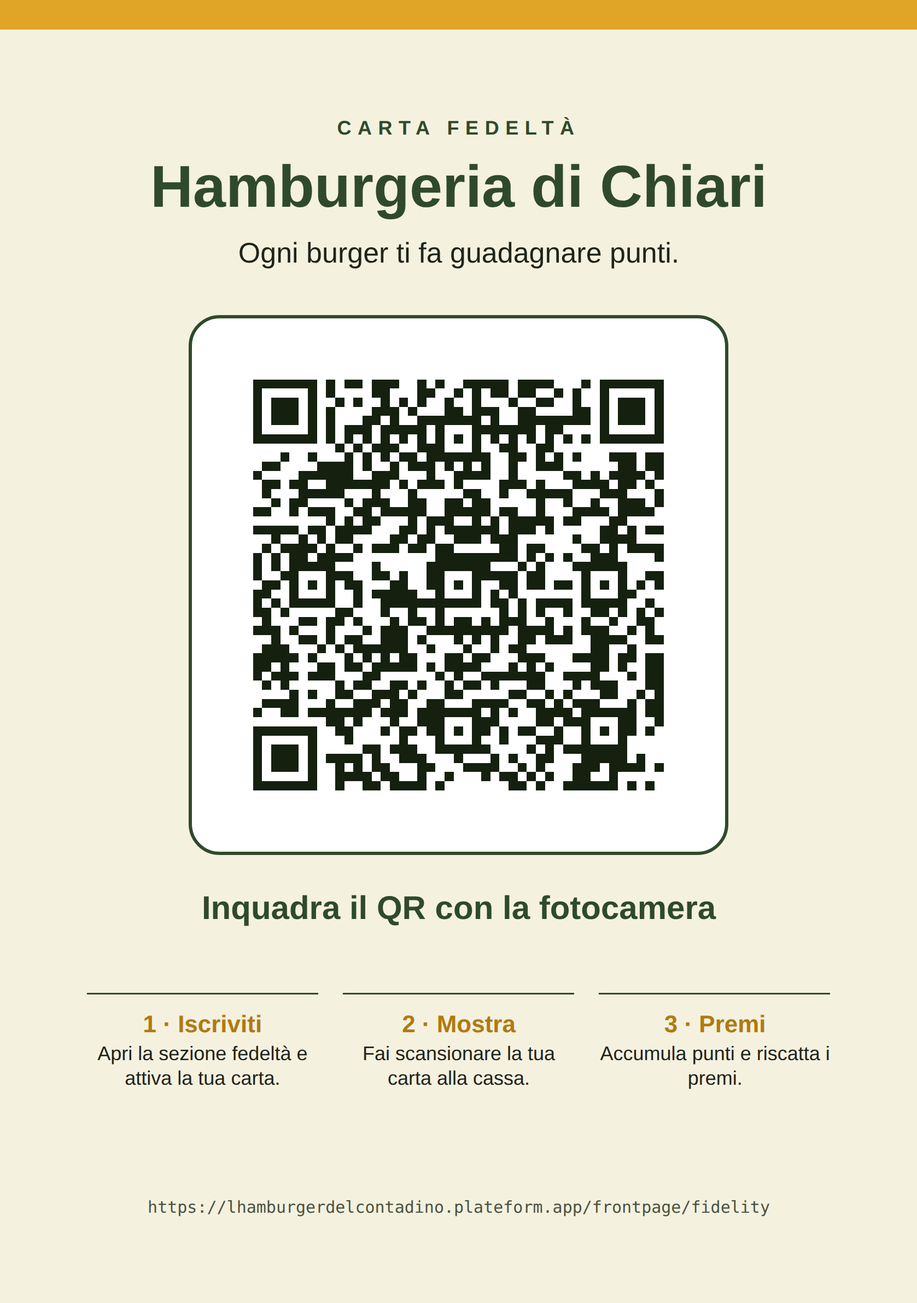
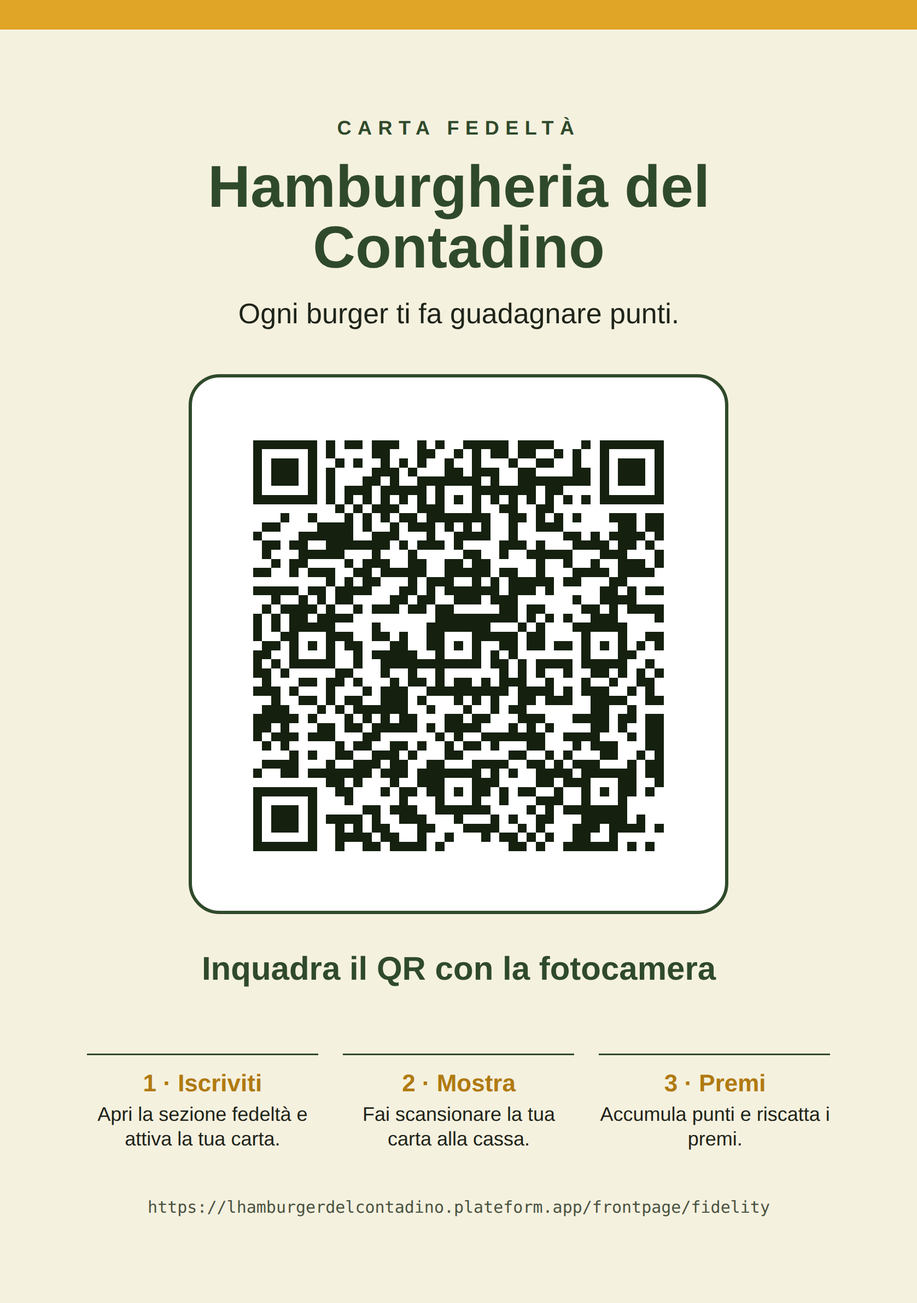
Rename restaurant to its official name, Hamburgheria del Contadino
Updates the app header, wallet card, scan message, README and QR
generator, and regenerates the QR files and A5 card.

Claude-Session: https://claude.ai/code/session_012S33PFhA3Vec366VbHgMSH

Changed region(s): [[0.124, 0.1243, 0.8992, 0.9009]]

diff --git a/qr/fidelity-poster.html b/qr/fidelity-poster.html
@@ -2,7 +2,7 @@
 <html lang="it">
 <head>
 <meta charset="utf-8">
-<title>Hamburgeria di Chiari — Carta Fedeltà</title>
+<title>Hamburgheria del Contadino — Carta Fedeltà</title>
 <style>
   @page { size: A5 portrait; margin: 0; }
   * { box-sizing: border-box; }
@@ -27,9 +27,9 @@
 <body>
   <div class="card">
     <div class="eyebrow">Carta Fedeltà</div>
-    <h1>Hamburgeria di Chiari</h1>
+    <h1>Hamburgheria del Contadino</h1>
     <p class="tag">Ogni burger ti fa guadagnare punti.</p>
-    <div class="qr"><svg xmlns="http://www.w3.org/2000/svg" viewBox="0 0 53 53" shape-rendering="crispEdges" role="img" aria-label="QR code: https://lhamburgerdelcontadino.plateform.app/frontpage/fidelity"><title>Hamburgeria di Chiari — Carta Fedeltà</title><rect width="53" height="53" fill="#ffffff"/><path d="M4 4h1v1h-1zM5 4h1v1h-1zM6 4h1v1h-1zM7 4h1v1h-1zM8 4h1v1h-1zM9 4h1v1h-1zM10 4h1v1h-1zM12 4h1v1h-1zM14 4h1v1h-1zM15 4h1v1h-1zM17 4h1v1h-1zM18 4h1v1h-1zM19 4h1v1h-1zM22 4h1v1h-1zM24 4h1v1h-1zM27 4h1v1h-1zM28 4h1v1h-1zM29 4h1v1h-1zM30 4h1v1h-1zM31 4h1v1h-1zM33 4h1v1h-1zM34 4h1v1h-1zM35 4h1v1h-1zM36 4h1v1h-1zM40 4h1v1h-1zM42 4h1v1h-1zM43 4h1v1h-1zM44 4h1v1h-1zM45 4h1v1h-1zM46 4h1v1h-1zM47 4h1v1h-1zM48 4h1v1h-1zM4 5h1v1h-1zM10 5h1v1h-1zM12 5h1v1h-1zM17 5h1v1h-1zM18 5h1v1h-1zM22 5h1v1h-1zM23 5h1v1h-1zM26 5h1v1h-1zM28 5h1v1h-1zM30 5h1v1h-1zM31 5h1v1h-1zM33 5h1v1h-1zM34 5h1v1h-1zM37 5h1v1h-1zM39 5h1v1h-1zM42 5h1v1h-1zM48 5h1v1h-1zM4 6h1v1h-1zM6 6h1v1h-1zM7 6h1v1h-1zM8 6h1v1h-1zM10 6h1v1h-1zM13 6h1v1h-1zM15 6h1v1h-1zM18 6h1v1h-1zM20 6h1v1h-1zM22 6h1v1h-1zM25 6h1v1h-1zM28 6h1v1h-1zM32 6h1v1h-1zM35 6h1v1h-1zM36 6h1v1h-1zM39 6h1v1h-1zM42 6h1v1h-1zM44 6h1v1h-1zM45 6h1v1h-1zM46 6h1v1h-1zM48 6h1v1h-1zM4 7h1v1h-1zM6 7h1v1h-1zM7 7h1v1h-1zM8 7h1v1h-1zM10 7h1v1h-1zM12 7h1v1h-1zM17 7h1v1h-1zM18 7h1v1h-1zM19 7h1v1h-1zM21 7h1v1h-1zM25 7h1v1h-1zM26 7h1v1h-1zM28 7h1v1h-1zM29 7h1v1h-1zM30 7h1v1h-1zM33 7h1v1h-1zM34 7h1v1h-1zM39 7h1v1h-1zM40 7h1v1h-1zM42 7h1v1h-1zM44 7h1v1h-1zM45 7h1v1h-1zM46 7h1v1h-1zM48 7h1v1h-1zM4 8h1v1h-1zM6 8h1v1h-1zM7 8h1v1h-1zM8 8h1v1h-1zM10 8h1v1h-1zM12 8h1v1h-1zM16 8h1v1h-1zM17 8h1v1h-1zM19 8h1v1h-1zM22 8h1v1h-1zM23 8h1v1h-1zM24 8h1v1h-1zM25 8h1v1h-1zM26 8h1v1h-1zM27 8h1v1h-1zM28 8h1v1h-1zM30 8h1v1h-1zM33 8h1v1h-1zM34 8h1v1h-1zM35 8h1v1h-1zM36 8h1v1h-1zM37 8h1v1h-1zM38 8h1v1h-1zM39 8h1v1h-1zM40 8h1v1h-1zM42 8h1v1h-1zM44 8h1v1h-1zM45 8h1v1h-1zM46 8h1v1h-1zM48 8h1v1h-1zM4 9h1v1h-1zM10 9h1v1h-1zM12 9h1v1h-1zM14 9h1v1h-1zM15 9h1v1h-1zM16 9h1v1h-1zM18 9h1v1h-1zM19 9h1v1h-1zM20 9h1v1h-1zM21 9h1v1h-1zM22 9h1v1h-1zM24 9h1v1h-1zM28 9h1v1h-1zM29 9h1v1h-1zM30 9h1v1h-1zM31 9h1v1h-1zM32 9h1v1h-1zM33 9h1v1h-1zM34 9h1v1h-1zM36 9h1v1h-1zM37 9h1v1h-1zM42 9h1v1h-1zM48 9h1v1h-1zM4 10h1v1h-1zM5 10h1v1h-1zM6 10h1v1h-1zM7 10h1v1h-1zM8 10h1v1h-1zM9 10h1v1h-1zM10 10h1v1h-1zM12 10h1v1h-1zM14 10h1v1h-1zM16 10h1v1h-1zM18 10h1v1h-1zM20 10h1v1h-1zM22 10h1v1h-1zM24 10h1v1h-1zM26 10h1v1h-1zM28 10h1v1h-1zM30 10h1v1h-1zM32 10h1v1h-1zM34 10h1v1h-1zM36 10h1v1h-1zM38 10h1v1h-1zM40 10h1v1h-1zM42 10h1v1h-1zM43 10h1v1h-1zM44 10h1v1h-1zM45 10h1v1h-1zM46 10h1v1h-1zM47 10h1v1h-1zM48 10h1v1h-1zM13 11h1v1h-1zM15 11h1v1h-1zM17 11h1v1h-1zM18 11h1v1h-1zM19 11h1v1h-1zM22 11h1v1h-1zM23 11h1v1h-1zM24 11h1v1h-1zM28 11h1v1h-1zM31 11h1v1h-1zM32 11h1v1h-1zM35 11h1v1h-1zM36 11h1v1h-1zM7 12h1v1h-1zM10 12h1v1h-1zM14 12h1v1h-1zM16 12h1v1h-1zM18 12h1v1h-1zM20 12h1v1h-1zM21 12h1v1h-1zM23 12h1v1h-1zM24 12h1v1h-1zM25 12h1v1h-1zM26 12h1v1h-1zM27 12h1v1h-1zM28 12h1v1h-1zM29 12h1v1h-1zM32 12h1v1h-1zM33 12h1v1h-1zM35 12h1v1h-1zM37 12h1v1h-1zM39 12h1v1h-1zM43 12h1v1h-1zM44 12h1v1h-1zM45 12h1v1h-1zM47 12h1v1h-1zM48 12h1v1h-1zM5 13h1v1h-1zM6 13h1v1h-1zM11 13h1v1h-1zM12 13h1v1h-1zM13 13h1v1h-1zM14 13h1v1h-1zM16 13h1v1h-1zM19 13h1v1h-1zM21 13h1v1h-1zM22 13h1v1h-1zM23 13h1v1h-1zM25 13h1v1h-1zM27 13h1v1h-1zM29 13h1v1h-1zM32 13h1v1h-1zM35 13h1v1h-1zM36 13h1v1h-1zM37 13h1v1h-1zM44 13h1v1h-1zM45 13h1v1h-1zM47 13h1v1h-1zM48 13h1v1h-1zM4 14h1v1h-1zM9 14h1v1h-1zM10 14h1v1h-1zM11 14h1v1h-1zM12 14h1v1h-1zM13 14h1v1h-1zM14 14h1v1h-1zM17 14h1v1h-1zM18 14h1v1h-1zM19 14h1v1h-1zM23 14h1v1h-1zM26 14h1v1h-1zM27 14h1v1h-1zM28 14h1v1h-1zM29 14h1v1h-1zM32 14h1v1h-1zM38 14h1v1h-1zM39 14h1v1h-1zM41 14h1v1h-1zM43 14h1v1h-1zM44 14h1v1h-1zM45 14h1v1h-1zM46 14h1v1h-1zM48 14h1v1h-1zM5 15h1v1h-1zM6 15h1v1h-1zM8 15h1v1h-1zM9 15h1v1h-1zM12 15h1v1h-1zM13 15h1v1h-1zM14 15h1v1h-1zM15 15h1v1h-1zM16 15h1v1h-1zM17 15h1v1h-1zM18 15h1v1h-1zM20 15h1v1h-1zM22 15h1v1h-1zM23 15h1v1h-1zM24 15h1v1h-1zM26 15h1v1h-1zM31 15h1v1h-1zM32 15h1v1h-1zM33 15h1v1h-1zM35 15h1v1h-1zM39 15h1v1h-1zM40 15h1v1h-1zM41 15h1v1h-1zM42 15h1v1h-1zM44 15h1v1h-1zM45 15h1v1h-1zM47 15h1v1h-1zM5 16h1v1h-1zM9 16h1v1h-1zM10 16h1v1h-1zM11 16h1v1h-1zM12 16h1v1h-1zM13 16h1v1h-1zM17 16h1v1h-1zM21 16h1v1h-1zM27 16h1v1h-1zM28 16h1v1h-1zM31 16h1v1h-1zM34 16h1v1h-1zM35 16h1v1h-1zM36 16h1v1h-1zM37 16h1v1h-1zM38 16h1v1h-1zM42 16h1v1h-1zM43 16h1v1h-1zM44 16h1v1h-1zM48 16h1v1h-1zM6 17h1v1h-1zM8 17h1v1h-1zM9 17h1v1h-1zM14 17h1v1h-1zM16 17h1v1h-1zM17 17h1v1h-1zM18 17h1v1h-1zM21 17h1v1h-1zM22 17h1v1h-1zM25 17h1v1h-1zM26 17h1v1h-1zM28 17h1v1h-1zM29 17h1v1h-1zM35 17h1v1h-1zM38 17h1v1h-1zM41 17h1v1h-1zM44 17h1v1h-1zM45 17h1v1h-1zM46 17h1v1h-1zM48 17h1v1h-1zM4 18h1v1h-1zM5 18h1v1h-1zM8 18h1v1h-1zM10 18h1v1h-1zM11 18h1v1h-1zM12 18h1v1h-1zM15 18h1v1h-1zM16 18h1v1h-1zM18 18h1v1h-1zM19 18h1v1h-1zM20 18h1v1h-1zM21 18h1v1h-1zM22 18h1v1h-1zM25 18h1v1h-1zM26 18h1v1h-1zM27 18h1v1h-1zM28 18h1v1h-1zM29 18h1v1h-1zM31 18h1v1h-1zM32 18h1v1h-1zM35 18h1v1h-1zM39 18h1v1h-1zM40 18h1v1h-1zM41 18h1v1h-1zM42 18h1v1h-1zM44 18h1v1h-1zM45 18h1v1h-1zM46 18h1v1h-1zM47 18h1v1h-1zM12 19h1v1h-1zM14 19h1v1h-1zM16 19h1v1h-1zM17 19h1v1h-1zM21 19h1v1h-1zM23 19h1v1h-1zM24 19h1v1h-1zM25 19h1v1h-1zM28 19h1v1h-1zM30 19h1v1h-1zM32 19h1v1h-1zM33 19h1v1h-1zM34 19h1v1h-1zM35 19h1v1h-1zM36 19h1v1h-1zM38 19h1v1h-1zM39 19h1v1h-1zM43 19h1v1h-1zM44 19h1v1h-1zM4 20h1v1h-1zM5 20h1v1h-1zM6 20h1v1h-1zM7 20h1v1h-1zM8 20h1v1h-1zM10 20h1v1h-1zM11 20h1v1h-1zM13 20h1v1h-1zM14 20h1v1h-1zM15 20h1v1h-1zM16 20h1v1h-1zM20 20h1v1h-1zM21 20h1v1h-1zM23 20h1v1h-1zM25 20h1v1h-1zM26 20h1v1h-1zM27 20h1v1h-1zM28 20h1v1h-1zM29 20h1v1h-1zM30 20h1v1h-1zM32 20h1v1h-1zM33 20h1v1h-1zM34 20h1v1h-1zM36 20h1v1h-1zM42 20h1v1h-1zM43 20h1v1h-1zM45 20h1v1h-1zM47 20h1v1h-1zM48 20h1v1h-1zM6 21h1v1h-1zM9 21h1v1h-1zM11 21h1v1h-1zM13 21h1v1h-1zM14 21h1v1h-1zM19 21h1v1h-1zM20 21h1v1h-1zM22 21h1v1h-1zM23 21h1v1h-1zM26 21h1v1h-1zM27 21h1v1h-1zM28 21h1v1h-1zM30 21h1v1h-1zM31 21h1v1h-1zM32 21h1v1h-1zM39 21h1v1h-1zM42 21h1v1h-1zM43 21h1v1h-1zM44 21h1v1h-1zM45 21h1v1h-1zM5 22h1v1h-1zM7 22h1v1h-1zM8 22h1v1h-1zM9 22h1v1h-1zM10 22h1v1h-1zM12 22h1v1h-1zM15 22h1v1h-1zM17 22h1v1h-1zM18 22h1v1h-1zM19 22h1v1h-1zM21 22h1v1h-1zM22 22h1v1h-1zM24 22h1v1h-1zM25 22h1v1h-1zM31 22h1v1h-1zM32 22h1v1h-1zM34 22h1v1h-1zM35 22h1v1h-1zM40 22h1v1h-1zM41 22h1v1h-1zM43 22h1v1h-1zM45 22h1v1h-1zM46 22h1v1h-1zM47 22h1v1h-1zM48 22h1v1h-1zM4 23h1v1h-1zM6 23h1v1h-1zM8 23h1v1h-1zM9 23h1v1h-1zM11 23h1v1h-1zM12 23h1v1h-1zM13 23h1v1h-1zM14 23h1v1h-1zM24 23h1v1h-1zM25 23h1v1h-1zM26 23h1v1h-1zM27 23h1v1h-1zM28 23h1v1h-1zM29 23h1v1h-1zM30 23h1v1h-1zM31 23h1v1h-1zM32 23h1v1h-1zM34 23h1v1h-1zM36 23h1v1h-1zM38 23h1v1h-1zM41 23h1v1h-1zM42 23h1v1h-1zM43 23h1v1h-1zM48 23h1v1h-1zM4 24h1v1h-1zM6 24h1v1h-1zM8 24h1v1h-1zM9 24h1v1h-1zM10 24h1v1h-1zM11 24h1v1h-1zM12 24h1v1h-1zM17 24h1v1h-1zM23 24h1v1h-1zM24 24h1v1h-1zM25 24h1v1h-1zM26 24h1v1h-1zM27 24h1v1h-1zM28 24h1v1h-1zM29 24h1v1h-1zM33 24h1v1h-1zM35 24h1v1h-1zM39 24h1v1h-1zM40 24h1v1h-1zM41 24h1v1h-1zM42 24h1v1h-1zM43 24h1v1h-1zM44 24h1v1h-1zM4 25h1v1h-1zM7 25h1v1h-1zM8 25h1v1h-1zM12 25h1v1h-1zM13 25h1v1h-1zM14 25h1v1h-1zM17 25h1v1h-1zM18 25h1v1h-1zM20 25h1v1h-1zM23 25h1v1h-1zM24 25h1v1h-1zM28 25h1v1h-1zM29 25h1v1h-1zM30 25h1v1h-1zM31 25h1v1h-1zM32 25h1v1h-1zM34 25h1v1h-1zM35 25h1v1h-1zM40 25h1v1h-1zM44 25h1v1h-1zM47 25h1v1h-1zM48 25h1v1h-1zM5 26h1v1h-1zM6 26h1v1h-1zM8 26h1v1h-1zM10 26h1v1h-1zM12 26h1v1h-1zM14 26h1v1h-1zM15 26h1v1h-1zM19 26h1v1h-1zM20 26h1v1h-1zM23 26h1v1h-1zM24 26h1v1h-1zM26 26h1v1h-1zM28 26h1v1h-1zM31 26h1v1h-1zM32 26h1v1h-1zM34 26h1v1h-1zM35 26h1v1h-1zM37 26h1v1h-1zM38 26h1v1h-1zM40 26h1v1h-1zM42 26h1v1h-1zM44 26h1v1h-1zM46 26h1v1h-1zM48 26h1v1h-1zM4 27h1v1h-1zM5 27h1v1h-1zM8 27h1v1h-1zM12 27h1v1h-1zM15 27h1v1h-1zM17 27h1v1h-1zM18 27h1v1h-1zM19 27h1v1h-1zM20 27h1v1h-1zM21 27h1v1h-1zM24 27h1v1h-1zM28 27h1v1h-1zM30 27h1v1h-1zM32 27h1v1h-1zM40 27h1v1h-1zM44 27h1v1h-1zM45 27h1v1h-1zM4 28h1v1h-1zM6 28h1v1h-1zM8 28h1v1h-1zM9 28h1v1h-1zM10 28h1v1h-1zM11 28h1v1h-1zM12 28h1v1h-1zM15 28h1v1h-1zM18 28h1v1h-1zM19 28h1v1h-1zM20 28h1v1h-1zM21 28h1v1h-1zM22 28h1v1h-1zM23 28h1v1h-1zM24 28h1v1h-1zM25 28h1v1h-1zM26 28h1v1h-1zM27 28h1v1h-1zM28 28h1v1h-1zM30 28h1v1h-1zM31 28h1v1h-1zM33 28h1v1h-1zM35 28h1v1h-1zM36 28h1v1h-1zM37 28h1v1h-1zM38 28h1v1h-1zM40 28h1v1h-1zM41 28h1v1h-1zM42 28h1v1h-1zM43 28h1v1h-1zM44 28h1v1h-1zM47 28h1v1h-1zM4 29h1v1h-1zM5 29h1v1h-1zM7 29h1v1h-1zM13 29h1v1h-1zM14 29h1v1h-1zM18 29h1v1h-1zM21 29h1v1h-1zM24 29h1v1h-1zM31 29h1v1h-1zM33 29h1v1h-1zM35 29h1v1h-1zM38 29h1v1h-1zM41 29h1v1h-1zM42 29h1v1h-1zM44 29h1v1h-1zM46 29h1v1h-1zM48 29h1v1h-1zM5 30h1v1h-1zM9 30h1v1h-1zM10 30h1v1h-1zM12 30h1v1h-1zM13 30h1v1h-1zM15 30h1v1h-1zM19 30h1v1h-1zM21 30h1v1h-1zM22 30h1v1h-1zM24 30h1v1h-1zM26 30h1v1h-1zM27 30h1v1h-1zM29 30h1v1h-1zM31 30h1v1h-1zM32 30h1v1h-1zM33 30h1v1h-1zM36 30h1v1h-1zM40 30h1v1h-1zM43 30h1v1h-1zM46 30h1v1h-1zM47 30h1v1h-1zM4 31h1v1h-1zM5 31h1v1h-1zM6 31h1v1h-1zM8 31h1v1h-1zM12 31h1v1h-1zM16 31h1v1h-1zM18 31h1v1h-1zM19 31h1v1h-1zM20 31h1v1h-1zM23 31h1v1h-1zM24 31h1v1h-1zM25 31h1v1h-1zM26 31h1v1h-1zM27 31h1v1h-1zM28 31h1v1h-1zM29 31h1v1h-1zM30 31h1v1h-1zM31 31h1v1h-1zM33 31h1v1h-1zM34 31h1v1h-1zM35 31h1v1h-1zM36 31h1v1h-1zM38 31h1v1h-1zM40 31h1v1h-1zM41 31h1v1h-1zM42 31h1v1h-1zM45 31h1v1h-1zM47 31h1v1h-1zM6 32h1v1h-1zM9 32h1v1h-1zM10 32h1v1h-1zM12 32h1v1h-1zM14 32h1v1h-1zM15 32h1v1h-1zM18 32h1v1h-1zM19 32h1v1h-1zM20 32h1v1h-1zM22 32h1v1h-1zM26 32h1v1h-1zM28 32h1v1h-1zM30 32h1v1h-1zM33 32h1v1h-1zM34 32h1v1h-1zM36 32h1v1h-1zM37 32h1v1h-1zM38 32h1v1h-1zM41 32h1v1h-1zM42 32h1v1h-1zM43 32h1v1h-1zM44 32h1v1h-1zM47 32h1v1h-1zM48 32h1v1h-1zM5 33h1v1h-1zM6 33h1v1h-1zM7 33h1v1h-1zM11 33h1v1h-1zM13 33h1v1h-1zM15 33h1v1h-1zM16 33h1v1h-1zM17 33h1v1h-1zM18 33h1v1h-1zM19 33h1v1h-1zM20 33h1v1h-1zM23 33h1v1h-1zM27 33h1v1h-1zM30 33h1v1h-1zM32 33h1v1h-1zM33 33h1v1h-1zM41 33h1v1h-1zM42 33h1v1h-1zM45 33h1v1h-1zM4 34h1v1h-1zM5 34h1v1h-1zM6 34h1v1h-1zM7 34h1v1h-1zM8 34h1v1h-1zM10 34h1v1h-1zM14 34h1v1h-1zM16 34h1v1h-1zM18 34h1v1h-1zM20 34h1v1h-1zM21 34h1v1h-1zM25 34h1v1h-1zM26 34h1v1h-1zM28 34h1v1h-1zM29 34h1v1h-1zM33 34h1v1h-1zM34 34h1v1h-1zM35 34h1v1h-1zM39 34h1v1h-1zM40 34h1v1h-1zM41 34h1v1h-1zM42 34h1v1h-1zM44 34h1v1h-1zM45 34h1v1h-1zM47 34h1v1h-1zM48 34h1v1h-1zM4 35h1v1h-1zM5 35h1v1h-1zM7 35h1v1h-1zM11 35h1v1h-1zM12 35h1v1h-1zM14 35h1v1h-1zM15 35h1v1h-1zM17 35h1v1h-1zM18 35h1v1h-1zM19 35h1v1h-1zM20 35h1v1h-1zM21 35h1v1h-1zM23 35h1v1h-1zM25 35h1v1h-1zM26 35h1v1h-1zM27 35h1v1h-1zM28 35h1v1h-1zM32 35h1v1h-1zM34 35h1v1h-1zM36 35h1v1h-1zM41 35h1v1h-1zM42 35h1v1h-1zM44 35h1v1h-1zM47 35h1v1h-1zM48 35h1v1h-1zM4 36h1v1h-1zM6 36h1v1h-1zM7 36h1v1h-1zM8 36h1v1h-1zM10 36h1v1h-1zM11 36h1v1h-1zM12 36h1v1h-1zM16 36h1v1h-1zM17 36h1v1h-1zM24 36h1v1h-1zM26 36h1v1h-1zM29 36h1v1h-1zM30 36h1v1h-1zM31 36h1v1h-1zM32 36h1v1h-1zM33 36h1v1h-1zM34 36h1v1h-1zM35 36h1v1h-1zM38 36h1v1h-1zM39 36h1v1h-1zM40 36h1v1h-1zM41 36h1v1h-1zM45 36h1v1h-1zM47 36h1v1h-1zM48 36h1v1h-1zM5 37h1v1h-1zM7 37h1v1h-1zM13 37h1v1h-1zM15 37h1v1h-1zM16 37h1v1h-1zM19 37h1v1h-1zM20 37h1v1h-1zM22 37h1v1h-1zM25 37h1v1h-1zM27 37h1v1h-1zM28 37h1v1h-1zM30 37h1v1h-1zM34 37h1v1h-1zM35 37h1v1h-1zM39 37h1v1h-1zM41 37h1v1h-1zM42 37h1v1h-1zM43 37h1v1h-1zM47 37h1v1h-1zM48 37h1v1h-1zM8 38h1v1h-1zM10 38h1v1h-1zM13 38h1v1h-1zM14 38h1v1h-1zM17 38h1v1h-1zM18 38h1v1h-1zM19 38h1v1h-1zM21 38h1v1h-1zM25 38h1v1h-1zM26 38h1v1h-1zM32 38h1v1h-1zM33 38h1v1h-1zM36 38h1v1h-1zM38 38h1v1h-1zM42 38h1v1h-1zM43 38h1v1h-1zM46 38h1v1h-1zM48 38h1v1h-1zM5 39h1v1h-1zM6 39h1v1h-1zM7 39h1v1h-1zM8 39h1v1h-1zM12 39h1v1h-1zM15 39h1v1h-1zM16 39h1v1h-1zM17 39h1v1h-1zM19 39h1v1h-1zM20 39h1v1h-1zM23 39h1v1h-1zM24 39h1v1h-1zM28 39h1v1h-1zM29 39h1v1h-1zM30 39h1v1h-1zM31 39h1v1h-1zM34 39h1v1h-1zM35 39h1v1h-1zM37 39h1v1h-1zM39 39h1v1h-1zM40 39h1v1h-1zM41 39h1v1h-1zM45 39h1v1h-1zM47 39h1v1h-1zM48 39h1v1h-1zM4 40h1v1h-1zM7 40h1v1h-1zM8 40h1v1h-1zM10 40h1v1h-1zM11 40h1v1h-1zM12 40h1v1h-1zM13 40h1v1h-1zM14 40h1v1h-1zM15 40h1v1h-1zM16 40h1v1h-1zM18 40h1v1h-1zM19 40h1v1h-1zM20 40h1v1h-1zM22 40h1v1h-1zM23 40h1v1h-1zM24 40h1v1h-1zM25 40h1v1h-1zM26 40h1v1h-1zM27 40h1v1h-1zM28 40h1v1h-1zM30 40h1v1h-1zM32 40h1v1h-1zM35 40h1v1h-1zM36 40h1v1h-1zM37 40h1v1h-1zM38 40h1v1h-1zM40 40h1v1h-1zM41 40h1v1h-1zM42 40h1v1h-1zM43 40h1v1h-1zM44 40h1v1h-1zM45 40h1v1h-1zM47 40h1v1h-1zM48 40h1v1h-1zM12 41h1v1h-1zM13 41h1v1h-1zM15 41h1v1h-1zM19 41h1v1h-1zM22 41h1v1h-1zM23 41h1v1h-1zM24 41h1v1h-1zM28 41h1v1h-1zM29 41h1v1h-1zM30 41h1v1h-1zM35 41h1v1h-1zM36 41h1v1h-1zM38 41h1v1h-1zM39 41h1v1h-1zM40 41h1v1h-1zM44 41h1v1h-1zM45 41h1v1h-1zM48 41h1v1h-1zM4 42h1v1h-1zM5 42h1v1h-1zM6 42h1v1h-1zM7 42h1v1h-1zM8 42h1v1h-1zM9 42h1v1h-1zM10 42h1v1h-1zM13 42h1v1h-1zM14 42h1v1h-1zM18 42h1v1h-1zM20 42h1v1h-1zM21 42h1v1h-1zM23 42h1v1h-1zM24 42h1v1h-1zM26 42h1v1h-1zM28 42h1v1h-1zM29 42h1v1h-1zM31 42h1v1h-1zM33 42h1v1h-1zM34 42h1v1h-1zM37 42h1v1h-1zM40 42h1v1h-1zM42 42h1v1h-1zM44 42h1v1h-1zM45 42h1v1h-1zM47 42h1v1h-1zM4 43h1v1h-1zM10 43h1v1h-1zM14 43h1v1h-1zM20 43h1v1h-1zM24 43h1v1h-1zM28 43h1v1h-1zM31 43h1v1h-1zM35 43h1v1h-1zM36 43h1v1h-1zM37 43h1v1h-1zM40 43h1v1h-1zM44 43h1v1h-1zM4 44h1v1h-1zM6 44h1v1h-1zM7 44h1v1h-1zM8 44h1v1h-1zM10 44h1v1h-1zM16 44h1v1h-1zM17 44h1v1h-1zM19 44h1v1h-1zM20 44h1v1h-1zM21 44h1v1h-1zM24 44h1v1h-1zM25 44h1v1h-1zM26 44h1v1h-1zM27 44h1v1h-1zM28 44h1v1h-1zM29 44h1v1h-1zM34 44h1v1h-1zM36 44h1v1h-1zM38 44h1v1h-1zM39 44h1v1h-1zM40 44h1v1h-1zM41 44h1v1h-1zM42 44h1v1h-1zM43 44h1v1h-1zM44 44h1v1h-1zM4 45h1v1h-1zM6 45h1v1h-1zM7 45h1v1h-1zM8 45h1v1h-1zM10 45h1v1h-1zM12 45h1v1h-1zM13 45h1v1h-1zM14 45h1v1h-1zM15 45h1v1h-1zM17 45h1v1h-1zM20 45h1v1h-1zM21 45h1v1h-1zM22 45h1v1h-1zM26 45h1v1h-1zM30 45h1v1h-1zM32 45h1v1h-1zM35 45h1v1h-1zM36 45h1v1h-1zM40 45h1v1h-1zM41 45h1v1h-1zM42 45h1v1h-1zM43 45h1v1h-1zM44 45h1v1h-1zM46 45h1v1h-1zM4 46h1v1h-1zM6 46h1v1h-1zM7 46h1v1h-1zM8 46h1v1h-1zM10 46h1v1h-1zM13 46h1v1h-1zM15 46h1v1h-1zM17 46h1v1h-1zM18 46h1v1h-1zM22 46h1v1h-1zM23 46h1v1h-1zM27 46h1v1h-1zM28 46h1v1h-1zM29 46h1v1h-1zM30 46h1v1h-1zM33 46h1v1h-1zM35 46h1v1h-1zM39 46h1v1h-1zM40 46h1v1h-1zM41 46h1v1h-1zM43 46h1v1h-1zM44 46h1v1h-1zM45 46h1v1h-1zM46 46h1v1h-1zM48 46h1v1h-1zM4 47h1v1h-1zM10 47h1v1h-1zM13 47h1v1h-1zM14 47h1v1h-1zM15 47h1v1h-1zM16 47h1v1h-1zM18 47h1v1h-1zM19 47h1v1h-1zM22 47h1v1h-1zM25 47h1v1h-1zM29 47h1v1h-1zM31 47h1v1h-1zM32 47h1v1h-1zM34 47h1v1h-1zM36 47h1v1h-1zM39 47h1v1h-1zM40 47h1v1h-1zM43 47h1v1h-1zM4 48h1v1h-1zM5 48h1v1h-1zM6 48h1v1h-1zM7 48h1v1h-1zM8 48h1v1h-1zM9 48h1v1h-1zM10 48h1v1h-1zM13 48h1v1h-1zM16 48h1v1h-1zM17 48h1v1h-1zM19 48h1v1h-1zM20 48h1v1h-1zM21 48h1v1h-1zM22 48h1v1h-1zM24 48h1v1h-1zM32 48h1v1h-1zM33 48h1v1h-1zM35 48h1v1h-1zM38 48h1v1h-1zM39 48h1v1h-1zM40 48h1v1h-1zM41 48h1v1h-1zM42 48h1v1h-1zM43 48h1v1h-1zM45 48h1v1h-1zM47 48h1v1h-1z" fill="#15200f"/></svg>
+    <div class="qr"><svg xmlns="http://www.w3.org/2000/svg" viewBox="0 0 53 53" shape-rendering="crispEdges" role="img" aria-label="QR code: https://lhamburgerdelcontadino.plateform.app/frontpage/fidelity"><title>Hamburgheria del Contadino — Carta Fedeltà</title><rect width="53" height="53" fill="#ffffff"/><path d="M4 4h1v1h-1zM5 4h1v1h-1zM6 4h1v1h-1zM7 4h1v1h-1zM8 4h1v1h-1zM9 4h1v1h-1zM10 4h1v1h-1zM12 4h1v1h-1zM14 4h1v1h-1zM15 4h1v1h-1zM17 4h1v1h-1zM18 4h1v1h-1zM19 4h1v1h-1zM22 4h1v1h-1zM24 4h1v1h-1zM27 4h1v1h-1zM28 4h1v1h-1zM29 4h1v1h-1zM30 4h1v1h-1zM31 4h1v1h-1zM33 4h1v1h-1zM34 4h1v1h-1zM35 4h1v1h-1zM36 4h1v1h-1zM40 4h1v1h-1zM42 4h1v1h-1zM43 4h1v1h-1zM44 4h1v1h-1zM45 4h1v1h-1zM46 4h1v1h-1zM47 4h1v1h-1zM48 4h1v1h-1zM4 5h1v1h-1zM10 5h1v1h-1zM12 5h1v1h-1zM17 5h1v1h-1zM18 5h1v1h-1zM22 5h1v1h-1zM23 5h1v1h-1zM26 5h1v1h-1zM28 5h1v1h-1zM30 5h1v1h-1zM31 5h1v1h-1zM33 5h1v1h-1zM34 5h1v1h-1zM37 5h1v1h-1zM39 5h1v1h-1zM42 5h1v1h-1zM48 5h1v1h-1zM4 6h1v1h-1zM6 6h1v1h-1zM7 6h1v1h-1zM8 6h1v1h-1zM10 6h1v1h-1zM13 6h1v1h-1zM15 6h1v1h-1zM18 6h1v1h-1zM20 6h1v1h-1zM22 6h1v1h-1zM25 6h1v1h-1zM28 6h1v1h-1zM32 6h1v1h-1zM35 6h1v1h-1zM36 6h1v1h-1zM39 6h1v1h-1zM42 6h1v1h-1zM44 6h1v1h-1zM45 6h1v1h-1zM46 6h1v1h-1zM48 6h1v1h-1zM4 7h1v1h-1zM6 7h1v1h-1zM7 7h1v1h-1zM8 7h1v1h-1zM10 7h1v1h-1zM12 7h1v1h-1zM17 7h1v1h-1zM18 7h1v1h-1zM19 7h1v1h-1zM21 7h1v1h-1zM25 7h1v1h-1zM26 7h1v1h-1zM28 7h1v1h-1zM29 7h1v1h-1zM30 7h1v1h-1zM33 7h1v1h-1zM34 7h1v1h-1zM39 7h1v1h-1zM40 7h1v1h-1zM42 7h1v1h-1zM44 7h1v1h-1zM45 7h1v1h-1zM46 7h1v1h-1zM48 7h1v1h-1zM4 8h1v1h-1zM6 8h1v1h-1zM7 8h1v1h-1zM8 8h1v1h-1zM10 8h1v1h-1zM12 8h1v1h-1zM16 8h1v1h-1zM17 8h1v1h-1zM19 8h1v1h-1zM22 8h1v1h-1zM23 8h1v1h-1zM24 8h1v1h-1zM25 8h1v1h-1zM26 8h1v1h-1zM27 8h1v1h-1zM28 8h1v1h-1zM30 8h1v1h-1zM33 8h1v1h-1zM34 8h1v1h-1zM35 8h1v1h-1zM36 8h1v1h-1zM37 8h1v1h-1zM38 8h1v1h-1zM39 8h1v1h-1zM40 8h1v1h-1zM42 8h1v1h-1zM44 8h1v1h-1zM45 8h1v1h-1zM46 8h1v1h-1zM48 8h1v1h-1zM4 9h1v1h-1zM10 9h1v1h-1zM12 9h1v1h-1zM14 9h1v1h-1zM15 9h1v1h-1zM16 9h1v1h-1zM18 9h1v1h-1zM19 9h1v1h-1zM20 9h1v1h-1zM21 9h1v1h-1zM22 9h1v1h-1zM24 9h1v1h-1zM28 9h1v1h-1zM29 9h1v1h-1zM30 9h1v1h-1zM31 9h1v1h-1zM32 9h1v1h-1zM33 9h1v1h-1zM34 9h1v1h-1zM36 9h1v1h-1zM37 9h1v1h-1zM42 9h1v1h-1zM48 9h1v1h-1zM4 10h1v1h-1zM5 10h1v1h-1zM6 10h1v1h-1zM7 10h1v1h-1zM8 10h1v1h-1zM9 10h1v1h-1zM10 10h1v1h-1zM12 10h1v1h-1zM14 10h1v1h-1zM16 10h1v1h-1zM18 10h1v1h-1zM20 10h1v1h-1zM22 10h1v1h-1zM24 10h1v1h-1zM26 10h1v1h-1zM28 10h1v1h-1zM30 10h1v1h-1zM32 10h1v1h-1zM34 10h1v1h-1zM36 10h1v1h-1zM38 10h1v1h-1zM40 10h1v1h-1zM42 10h1v1h-1zM43 10h1v1h-1zM44 10h1v1h-1zM45 10h1v1h-1zM46 10h1v1h-1zM47 10h1v1h-1zM48 10h1v1h-1zM13 11h1v1h-1zM15 11h1v1h-1zM17 11h1v1h-1zM18 11h1v1h-1zM19 11h1v1h-1zM22 11h1v1h-1zM23 11h1v1h-1zM24 11h1v1h-1zM28 11h1v1h-1zM31 11h1v1h-1zM32 11h1v1h-1zM35 11h1v1h-1zM36 11h1v1h-1zM7 12h1v1h-1zM10 12h1v1h-1zM14 12h1v1h-1zM16 12h1v1h-1zM18 12h1v1h-1zM20 12h1v1h-1zM21 12h1v1h-1zM23 12h1v1h-1zM24 12h1v1h-1zM25 12h1v1h-1zM26 12h1v1h-1zM27 12h1v1h-1zM28 12h1v1h-1zM29 12h1v1h-1zM32 12h1v1h-1zM33 12h1v1h-1zM35 12h1v1h-1zM37 12h1v1h-1zM39 12h1v1h-1zM43 12h1v1h-1zM44 12h1v1h-1zM45 12h1v1h-1zM47 12h1v1h-1zM48 12h1v1h-1zM5 13h1v1h-1zM6 13h1v1h-1zM11 13h1v1h-1zM12 13h1v1h-1zM13 13h1v1h-1zM14 13h1v1h-1zM16 13h1v1h-1zM19 13h1v1h-1zM21 13h1v1h-1zM22 13h1v1h-1zM23 13h1v1h-1zM25 13h1v1h-1zM27 13h1v1h-1zM29 13h1v1h-1zM32 13h1v1h-1zM35 13h1v1h-1zM36 13h1v1h-1zM37 13h1v1h-1zM44 13h1v1h-1zM45 13h1v1h-1zM47 13h1v1h-1zM48 13h1v1h-1zM4 14h1v1h-1zM9 14h1v1h-1zM10 14h1v1h-1zM11 14h1v1h-1zM12 14h1v1h-1zM13 14h1v1h-1zM14 14h1v1h-1zM17 14h1v1h-1zM18 14h1v1h-1zM19 14h1v1h-1zM23 14h1v1h-1zM26 14h1v1h-1zM27 14h1v1h-1zM28 14h1v1h-1zM29 14h1v1h-1zM32 14h1v1h-1zM38 14h1v1h-1zM39 14h1v1h-1zM41 14h1v1h-1zM43 14h1v1h-1zM44 14h1v1h-1zM45 14h1v1h-1zM46 14h1v1h-1zM48 14h1v1h-1zM5 15h1v1h-1zM6 15h1v1h-1zM8 15h1v1h-1zM9 15h1v1h-1zM12 15h1v1h-1zM13 15h1v1h-1zM14 15h1v1h-1zM15 15h1v1h-1zM16 15h1v1h-1zM17 15h1v1h-1zM18 15h1v1h-1zM20 15h1v1h-1zM22 15h1v1h-1zM23 15h1v1h-1zM24 15h1v1h-1zM26 15h1v1h-1zM31 15h1v1h-1zM32 15h1v1h-1zM33 15h1v1h-1zM35 15h1v1h-1zM39 15h1v1h-1zM40 15h1v1h-1zM41 15h1v1h-1zM42 15h1v1h-1zM44 15h1v1h-1zM45 15h1v1h-1zM47 15h1v1h-1zM5 16h1v1h-1zM9 16h1v1h-1zM10 16h1v1h-1zM11 16h1v1h-1zM12 16h1v1h-1zM13 16h1v1h-1zM17 16h1v1h-1zM21 16h1v1h-1zM27 16h1v1h-1zM28 16h1v1h-1zM31 16h1v1h-1zM34 16h1v1h-1zM35 16h1v1h-1zM36 16h1v1h-1zM37 16h1v1h-1zM38 16h1v1h-1zM42 16h1v1h-1zM43 16h1v1h-1zM44 16h1v1h-1zM48 16h1v1h-1zM6 17h1v1h-1zM8 17h1v1h-1zM9 17h1v1h-1zM14 17h1v1h-1zM16 17h1v1h-1zM17 17h1v1h-1zM18 17h1v1h-1zM21 17h1v1h-1zM22 17h1v1h-1zM25 17h1v1h-1zM26 17h1v1h-1zM28 17h1v1h-1zM29 17h1v1h-1zM35 17h1v1h-1zM38 17h1v1h-1zM41 17h1v1h-1zM44 17h1v1h-1zM45 17h1v1h-1zM46 17h1v1h-1zM48 17h1v1h-1zM4 18h1v1h-1zM5 18h1v1h-1zM8 18h1v1h-1zM10 18h1v1h-1zM11 18h1v1h-1zM12 18h1v1h-1zM15 18h1v1h-1zM16 18h1v1h-1zM18 18h1v1h-1zM19 18h1v1h-1zM20 18h1v1h-1zM21 18h1v1h-1zM22 18h1v1h-1zM25 18h1v1h-1zM26 18h1v1h-1zM27 18h1v1h-1zM28 18h1v1h-1zM29 18h1v1h-1zM31 18h1v1h-1zM32 18h1v1h-1zM35 18h1v1h-1zM39 18h1v1h-1zM40 18h1v1h-1zM41 18h1v1h-1zM42 18h1v1h-1zM44 18h1v1h-1zM45 18h1v1h-1zM46 18h1v1h-1zM47 18h1v1h-1zM12 19h1v1h-1zM14 19h1v1h-1zM16 19h1v1h-1zM17 19h1v1h-1zM21 19h1v1h-1zM23 19h1v1h-1zM24 19h1v1h-1zM25 19h1v1h-1zM28 19h1v1h-1zM30 19h1v1h-1zM32 19h1v1h-1zM33 19h1v1h-1zM34 19h1v1h-1zM35 19h1v1h-1zM36 19h1v1h-1zM38 19h1v1h-1zM39 19h1v1h-1zM43 19h1v1h-1zM44 19h1v1h-1zM4 20h1v1h-1zM5 20h1v1h-1zM6 20h1v1h-1zM7 20h1v1h-1zM8 20h1v1h-1zM10 20h1v1h-1zM11 20h1v1h-1zM13 20h1v1h-1zM14 20h1v1h-1zM15 20h1v1h-1zM16 20h1v1h-1zM20 20h1v1h-1zM21 20h1v1h-1zM23 20h1v1h-1zM25 20h1v1h-1zM26 20h1v1h-1zM27 20h1v1h-1zM28 20h1v1h-1zM29 20h1v1h-1zM30 20h1v1h-1zM32 20h1v1h-1zM33 20h1v1h-1zM34 20h1v1h-1zM36 20h1v1h-1zM42 20h1v1h-1zM43 20h1v1h-1zM45 20h1v1h-1zM47 20h1v1h-1zM48 20h1v1h-1zM6 21h1v1h-1zM9 21h1v1h-1zM11 21h1v1h-1zM13 21h1v1h-1zM14 21h1v1h-1zM19 21h1v1h-1zM20 21h1v1h-1zM22 21h1v1h-1zM23 21h1v1h-1zM26 21h1v1h-1zM27 21h1v1h-1zM28 21h1v1h-1zM30 21h1v1h-1zM31 21h1v1h-1zM32 21h1v1h-1zM39 21h1v1h-1zM42 21h1v1h-1zM43 21h1v1h-1zM44 21h1v1h-1zM45 21h1v1h-1zM5 22h1v1h-1zM7 22h1v1h-1zM8 22h1v1h-1zM9 22h1v1h-1zM10 22h1v1h-1zM12 22h1v1h-1zM15 22h1v1h-1zM17 22h1v1h-1zM18 22h1v1h-1zM19 22h1v1h-1zM21 22h1v1h-1zM22 22h1v1h-1zM24 22h1v1h-1zM25 22h1v1h-1zM31 22h1v1h-1zM32 22h1v1h-1zM34 22h1v1h-1zM35 22h1v1h-1zM40 22h1v1h-1zM41 22h1v1h-1zM43 22h1v1h-1zM45 22h1v1h-1zM46 22h1v1h-1zM47 22h1v1h-1zM48 22h1v1h-1zM4 23h1v1h-1zM6 23h1v1h-1zM8 23h1v1h-1zM9 23h1v1h-1zM11 23h1v1h-1zM12 23h1v1h-1zM13 23h1v1h-1zM14 23h1v1h-1zM24 23h1v1h-1zM25 23h1v1h-1zM26 23h1v1h-1zM27 23h1v1h-1zM28 23h1v1h-1zM29 23h1v1h-1zM30 23h1v1h-1zM31 23h1v1h-1zM32 23h1v1h-1zM34 23h1v1h-1zM36 23h1v1h-1zM38 23h1v1h-1zM41 23h1v1h-1zM42 23h1v1h-1zM43 23h1v1h-1zM48 23h1v1h-1zM4 24h1v1h-1zM6 24h1v1h-1zM8 24h1v1h-1zM9 24h1v1h-1zM10 24h1v1h-1zM11 24h1v1h-1zM12 24h1v1h-1zM17 24h1v1h-1zM23 24h1v1h-1zM24 24h1v1h-1zM25 24h1v1h-1zM26 24h1v1h-1zM27 24h1v1h-1zM28 24h1v1h-1zM29 24h1v1h-1zM33 24h1v1h-1zM35 24h1v1h-1zM39 24h1v1h-1zM40 24h1v1h-1zM41 24h1v1h-1zM42 24h1v1h-1zM43 24h1v1h-1zM44 24h1v1h-1zM4 25h1v1h-1zM7 25h1v1h-1zM8 25h1v1h-1zM12 25h1v1h-1zM13 25h1v1h-1zM14 25h1v1h-1zM17 25h1v1h-1zM18 25h1v1h-1zM20 25h1v1h-1zM23 25h1v1h-1zM24 25h1v1h-1zM28 25h1v1h-1zM29 25h1v1h-1zM30 25h1v1h-1zM31 25h1v1h-1zM32 25h1v1h-1zM34 25h1v1h-1zM35 25h1v1h-1zM40 25h1v1h-1zM44 25h1v1h-1zM47 25h1v1h-1zM48 25h1v1h-1zM5 26h1v1h-1zM6 26h1v1h-1zM8 26h1v1h-1zM10 26h1v1h-1zM12 26h1v1h-1zM14 26h1v1h-1zM15 26h1v1h-1zM19 26h1v1h-1zM20 26h1v1h-1zM23 26h1v1h-1zM24 26h1v1h-1zM26 26h1v1h-1zM28 26h1v1h-1zM31 26h1v1h-1zM32 26h1v1h-1zM34 26h1v1h-1zM35 26h1v1h-1zM37 26h1v1h-1zM38 26h1v1h-1zM40 26h1v1h-1zM42 26h1v1h-1zM44 26h1v1h-1zM46 26h1v1h-1zM48 26h1v1h-1zM4 27h1v1h-1zM5 27h1v1h-1zM8 27h1v1h-1zM12 27h1v1h-1zM15 27h1v1h-1zM17 27h1v1h-1zM18 27h1v1h-1zM19 27h1v1h-1zM20 27h1v1h-1zM21 27h1v1h-1zM24 27h1v1h-1zM28 27h1v1h-1zM30 27h1v1h-1zM32 27h1v1h-1zM40 27h1v1h-1zM44 27h1v1h-1zM45 27h1v1h-1zM4 28h1v1h-1zM6 28h1v1h-1zM8 28h1v1h-1zM9 28h1v1h-1zM10 28h1v1h-1zM11 28h1v1h-1zM12 28h1v1h-1zM15 28h1v1h-1zM18 28h1v1h-1zM19 28h1v1h-1zM20 28h1v1h-1zM21 28h1v1h-1zM22 28h1v1h-1zM23 28h1v1h-1zM24 28h1v1h-1zM25 28h1v1h-1zM26 28h1v1h-1zM27 28h1v1h-1zM28 28h1v1h-1zM30 28h1v1h-1zM31 28h1v1h-1zM33 28h1v1h-1zM35 28h1v1h-1zM36 28h1v1h-1zM37 28h1v1h-1zM38 28h1v1h-1zM40 28h1v1h-1zM41 28h1v1h-1zM42 28h1v1h-1zM43 28h1v1h-1zM44 28h1v1h-1zM47 28h1v1h-1zM4 29h1v1h-1zM5 29h1v1h-1zM7 29h1v1h-1zM13 29h1v1h-1zM14 29h1v1h-1zM18 29h1v1h-1zM21 29h1v1h-1zM24 29h1v1h-1zM31 29h1v1h-1zM33 29h1v1h-1zM35 29h1v1h-1zM38 29h1v1h-1zM41 29h1v1h-1zM42 29h1v1h-1zM44 29h1v1h-1zM46 29h1v1h-1zM48 29h1v1h-1zM5 30h1v1h-1zM9 30h1v1h-1zM10 30h1v1h-1zM12 30h1v1h-1zM13 30h1v1h-1zM15 30h1v1h-1zM19 30h1v1h-1zM21 30h1v1h-1zM22 30h1v1h-1zM24 30h1v1h-1zM26 30h1v1h-1zM27 30h1v1h-1zM29 30h1v1h-1zM31 30h1v1h-1zM32 30h1v1h-1zM33 30h1v1h-1zM36 30h1v1h-1zM40 30h1v1h-1zM43 30h1v1h-1zM46 30h1v1h-1zM47 30h1v1h-1zM4 31h1v1h-1zM5 31h1v1h-1zM6 31h1v1h-1zM8 31h1v1h-1zM12 31h1v1h-1zM16 31h1v1h-1zM18 31h1v1h-1zM19 31h1v1h-1zM20 31h1v1h-1zM23 31h1v1h-1zM24 31h1v1h-1zM25 31h1v1h-1zM26 31h1v1h-1zM27 31h1v1h-1zM28 31h1v1h-1zM29 31h1v1h-1zM30 31h1v1h-1zM31 31h1v1h-1zM33 31h1v1h-1zM34 31h1v1h-1zM35 31h1v1h-1zM36 31h1v1h-1zM38 31h1v1h-1zM40 31h1v1h-1zM41 31h1v1h-1zM42 31h1v1h-1zM45 31h1v1h-1zM47 31h1v1h-1zM6 32h1v1h-1zM9 32h1v1h-1zM10 32h1v1h-1zM12 32h1v1h-1zM14 32h1v1h-1zM15 32h1v1h-1zM18 32h1v1h-1zM19 32h1v1h-1zM20 32h1v1h-1zM22 32h1v1h-1zM26 32h1v1h-1zM28 32h1v1h-1zM30 32h1v1h-1zM33 32h1v1h-1zM34 32h1v1h-1zM36 32h1v1h-1zM37 32h1v1h-1zM38 32h1v1h-1zM41 32h1v1h-1zM42 32h1v1h-1zM43 32h1v1h-1zM44 32h1v1h-1zM47 32h1v1h-1zM48 32h1v1h-1zM5 33h1v1h-1zM6 33h1v1h-1zM7 33h1v1h-1zM11 33h1v1h-1zM13 33h1v1h-1zM15 33h1v1h-1zM16 33h1v1h-1zM17 33h1v1h-1zM18 33h1v1h-1zM19 33h1v1h-1zM20 33h1v1h-1zM23 33h1v1h-1zM27 33h1v1h-1zM30 33h1v1h-1zM32 33h1v1h-1zM33 33h1v1h-1zM41 33h1v1h-1zM42 33h1v1h-1zM45 33h1v1h-1zM4 34h1v1h-1zM5 34h1v1h-1zM6 34h1v1h-1zM7 34h1v1h-1zM8 34h1v1h-1zM10 34h1v1h-1zM14 34h1v1h-1zM16 34h1v1h-1zM18 34h1v1h-1zM20 34h1v1h-1zM21 34h1v1h-1zM25 34h1v1h-1zM26 34h1v1h-1zM28 34h1v1h-1zM29 34h1v1h-1zM33 34h1v1h-1zM34 34h1v1h-1zM35 34h1v1h-1zM39 34h1v1h-1zM40 34h1v1h-1zM41 34h1v1h-1zM42 34h1v1h-1zM44 34h1v1h-1zM45 34h1v1h-1zM47 34h1v1h-1zM48 34h1v1h-1zM4 35h1v1h-1zM5 35h1v1h-1zM7 35h1v1h-1zM11 35h1v1h-1zM12 35h1v1h-1zM14 35h1v1h-1zM15 35h1v1h-1zM17 35h1v1h-1zM18 35h1v1h-1zM19 35h1v1h-1zM20 35h1v1h-1zM21 35h1v1h-1zM23 35h1v1h-1zM25 35h1v1h-1zM26 35h1v1h-1zM27 35h1v1h-1zM28 35h1v1h-1zM32 35h1v1h-1zM34 35h1v1h-1zM36 35h1v1h-1zM41 35h1v1h-1zM42 35h1v1h-1zM44 35h1v1h-1zM47 35h1v1h-1zM48 35h1v1h-1zM4 36h1v1h-1zM6 36h1v1h-1zM7 36h1v1h-1zM8 36h1v1h-1zM10 36h1v1h-1zM11 36h1v1h-1zM12 36h1v1h-1zM16 36h1v1h-1zM17 36h1v1h-1zM24 36h1v1h-1zM26 36h1v1h-1zM29 36h1v1h-1zM30 36h1v1h-1zM31 36h1v1h-1zM32 36h1v1h-1zM33 36h1v1h-1zM34 36h1v1h-1zM35 36h1v1h-1zM38 36h1v1h-1zM39 36h1v1h-1zM40 36h1v1h-1zM41 36h1v1h-1zM45 36h1v1h-1zM47 36h1v1h-1zM48 36h1v1h-1zM5 37h1v1h-1zM7 37h1v1h-1zM13 37h1v1h-1zM15 37h1v1h-1zM16 37h1v1h-1zM19 37h1v1h-1zM20 37h1v1h-1zM22 37h1v1h-1zM25 37h1v1h-1zM27 37h1v1h-1zM28 37h1v1h-1zM30 37h1v1h-1zM34 37h1v1h-1zM35 37h1v1h-1zM39 37h1v1h-1zM41 37h1v1h-1zM42 37h1v1h-1zM43 37h1v1h-1zM47 37h1v1h-1zM48 37h1v1h-1zM8 38h1v1h-1zM10 38h1v1h-1zM13 38h1v1h-1zM14 38h1v1h-1zM17 38h1v1h-1zM18 38h1v1h-1zM19 38h1v1h-1zM21 38h1v1h-1zM25 38h1v1h-1zM26 38h1v1h-1zM32 38h1v1h-1zM33 38h1v1h-1zM36 38h1v1h-1zM38 38h1v1h-1zM42 38h1v1h-1zM43 38h1v1h-1zM46 38h1v1h-1zM48 38h1v1h-1zM5 39h1v1h-1zM6 39h1v1h-1zM7 39h1v1h-1zM8 39h1v1h-1zM12 39h1v1h-1zM15 39h1v1h-1zM16 39h1v1h-1zM17 39h1v1h-1zM19 39h1v1h-1zM20 39h1v1h-1zM23 39h1v1h-1zM24 39h1v1h-1zM28 39h1v1h-1zM29 39h1v1h-1zM30 39h1v1h-1zM31 39h1v1h-1zM34 39h1v1h-1zM35 39h1v1h-1zM37 39h1v1h-1zM39 39h1v1h-1zM40 39h1v1h-1zM41 39h1v1h-1zM45 39h1v1h-1zM47 39h1v1h-1zM48 39h1v1h-1zM4 40h1v1h-1zM7 40h1v1h-1zM8 40h1v1h-1zM10 40h1v1h-1zM11 40h1v1h-1zM12 40h1v1h-1zM13 40h1v1h-1zM14 40h1v1h-1zM15 40h1v1h-1zM16 40h1v1h-1zM18 40h1v1h-1zM19 40h1v1h-1zM20 40h1v1h-1zM22 40h1v1h-1zM23 40h1v1h-1zM24 40h1v1h-1zM25 40h1v1h-1zM26 40h1v1h-1zM27 40h1v1h-1zM28 40h1v1h-1zM30 40h1v1h-1zM32 40h1v1h-1zM35 40h1v1h-1zM36 40h1v1h-1zM37 40h1v1h-1zM38 40h1v1h-1zM40 40h1v1h-1zM41 40h1v1h-1zM42 40h1v1h-1zM43 40h1v1h-1zM44 40h1v1h-1zM45 40h1v1h-1zM47 40h1v1h-1zM48 40h1v1h-1zM12 41h1v1h-1zM13 41h1v1h-1zM15 41h1v1h-1zM19 41h1v1h-1zM22 41h1v1h-1zM23 41h1v1h-1zM24 41h1v1h-1zM28 41h1v1h-1zM29 41h1v1h-1zM30 41h1v1h-1zM35 41h1v1h-1zM36 41h1v1h-1zM38 41h1v1h-1zM39 41h1v1h-1zM40 41h1v1h-1zM44 41h1v1h-1zM45 41h1v1h-1zM48 41h1v1h-1zM4 42h1v1h-1zM5 42h1v1h-1zM6 42h1v1h-1zM7 42h1v1h-1zM8 42h1v1h-1zM9 42h1v1h-1zM10 42h1v1h-1zM13 42h1v1h-1zM14 42h1v1h-1zM18 42h1v1h-1zM20 42h1v1h-1zM21 42h1v1h-1zM23 42h1v1h-1zM24 42h1v1h-1zM26 42h1v1h-1zM28 42h1v1h-1zM29 42h1v1h-1zM31 42h1v1h-1zM33 42h1v1h-1zM34 42h1v1h-1zM37 42h1v1h-1zM40 42h1v1h-1zM42 42h1v1h-1zM44 42h1v1h-1zM45 42h1v1h-1zM47 42h1v1h-1zM4 43h1v1h-1zM10 43h1v1h-1zM14 43h1v1h-1zM20 43h1v1h-1zM24 43h1v1h-1zM28 43h1v1h-1zM31 43h1v1h-1zM35 43h1v1h-1zM36 43h1v1h-1zM37 43h1v1h-1zM40 43h1v1h-1zM44 43h1v1h-1zM4 44h1v1h-1zM6 44h1v1h-1zM7 44h1v1h-1zM8 44h1v1h-1zM10 44h1v1h-1zM16 44h1v1h-1zM17 44h1v1h-1zM19 44h1v1h-1zM20 44h1v1h-1zM21 44h1v1h-1zM24 44h1v1h-1zM25 44h1v1h-1zM26 44h1v1h-1zM27 44h1v1h-1zM28 44h1v1h-1zM29 44h1v1h-1zM34 44h1v1h-1zM36 44h1v1h-1zM38 44h1v1h-1zM39 44h1v1h-1zM40 44h1v1h-1zM41 44h1v1h-1zM42 44h1v1h-1zM43 44h1v1h-1zM44 44h1v1h-1zM4 45h1v1h-1zM6 45h1v1h-1zM7 45h1v1h-1zM8 45h1v1h-1zM10 45h1v1h-1zM12 45h1v1h-1zM13 45h1v1h-1zM14 45h1v1h-1zM15 45h1v1h-1zM17 45h1v1h-1zM20 45h1v1h-1zM21 45h1v1h-1zM22 45h1v1h-1zM26 45h1v1h-1zM30 45h1v1h-1zM32 45h1v1h-1zM35 45h1v1h-1zM36 45h1v1h-1zM40 45h1v1h-1zM41 45h1v1h-1zM42 45h1v1h-1zM43 45h1v1h-1zM44 45h1v1h-1zM46 45h1v1h-1zM4 46h1v1h-1zM6 46h1v1h-1zM7 46h1v1h-1zM8 46h1v1h-1zM10 46h1v1h-1zM13 46h1v1h-1zM15 46h1v1h-1zM17 46h1v1h-1zM18 46h1v1h-1zM22 46h1v1h-1zM23 46h1v1h-1zM27 46h1v1h-1zM28 46h1v1h-1zM29 46h1v1h-1zM30 46h1v1h-1zM33 46h1v1h-1zM35 46h1v1h-1zM39 46h1v1h-1zM40 46h1v1h-1zM41 46h1v1h-1zM43 46h1v1h-1zM44 46h1v1h-1zM45 46h1v1h-1zM46 46h1v1h-1zM48 46h1v1h-1zM4 47h1v1h-1zM10 47h1v1h-1zM13 47h1v1h-1zM14 47h1v1h-1zM15 47h1v1h-1zM16 47h1v1h-1zM18 47h1v1h-1zM19 47h1v1h-1zM22 47h1v1h-1zM25 47h1v1h-1zM29 47h1v1h-1zM31 47h1v1h-1zM32 47h1v1h-1zM34 47h1v1h-1zM36 47h1v1h-1zM39 47h1v1h-1zM40 47h1v1h-1zM43 47h1v1h-1zM4 48h1v1h-1zM5 48h1v1h-1zM6 48h1v1h-1zM7 48h1v1h-1zM8 48h1v1h-1zM9 48h1v1h-1zM10 48h1v1h-1zM13 48h1v1h-1zM16 48h1v1h-1zM17 48h1v1h-1zM19 48h1v1h-1zM20 48h1v1h-1zM21 48h1v1h-1zM22 48h1v1h-1zM24 48h1v1h-1zM32 48h1v1h-1zM33 48h1v1h-1zM35 48h1v1h-1zM38 48h1v1h-1zM39 48h1v1h-1zM40 48h1v1h-1zM41 48h1v1h-1zM42 48h1v1h-1zM43 48h1v1h-1zM45 48h1v1h-1zM47 48h1v1h-1z" fill="#15200f"/></svg>
 </div>
     <p class="cta">Inquadra il QR con la fotocamera</p>
     <ol>

diff --git a/app.js b/app.js
@@ -1,4 +1,4 @@
-/* L'Hamburger del Contadino — fidelity card + CRM mock.
+/* Hamburgheria del Contadino — fidelity card + CRM mock.
  * All money is stored as integer cents so totals never drift.
  * Data lives in localStorage; the first run seeds a deterministic demo dataset. */
 (() => {
@@ -422,7 +422,7 @@
           </select>
           <div class="wallet">
             <div class="wallet-top">
-              <div class="wallet-brand">L'Hamburger<br>del Contadino<small>CARTA FEDELTÀ</small></div>
+              <div class="wallet-brand">Hamburgheria<br>del Contadino<small>CARTA FEDELTÀ</small></div>
               <span class="wallet-tier">${s.tier.name}</span>
             </div>
             <div class="wallet-points"><b class="num">${intFmt.format(s.points)}</b><span>points</span></div>
@@ -603,7 +603,7 @@
     const id = cardIdFrom(text);
     const c = id && customerById(id);
     if (!c) {
-      scanMsg(id ? `Card ${id} is not registered. Enrol the customer in the CRM tab.` : `That ${source} holds no L'Hamburger del Contadino card.`, 'err');
+      scanMsg(id ? `Card ${id} is not registered. Enrol the customer in the CRM tab.` : `That ${source} holds no Hamburgheria del Contadino card.`, 'err');
       return false;
     }
     ui.tillCustomer = c.id;

diff --git a/tools/make-fidelity-qr.js b/tools/make-fidelity-qr.js
@@ -1,5 +1,5 @@
 #!/usr/bin/env node
-/* Generates the official fidelity QR code for Hamburgeria di Chiari.
+/* Generates the official fidelity QR code for Hamburgheria del Contadino.
  *
  *   node tools/make-fidelity-qr.js
  *
@@ -19,7 +19,7 @@ const qrcode = require('../vendor/qrcode.js');
 const jsQR = require('../vendor/jsQR.js');
 
 const TARGET_URL = 'https://lhamburgerdelcontadino.plateform.app/frontpage/fidelity';
-const RESTAURANT = 'Hamburgeria di Chiari';
+const RESTAURANT = 'Hamburgheria del Contadino';
 const OUT = path.join(__dirname, '..', 'qr');
 const QUIET = 4; // modules of white border required by the QR spec
 const PNG_TARGET_PX = 2048;

diff --git a/index.html b/index.html
@@ -355,7 +355,7 @@ td.name { font-weight: 600; }
     <div class="brand">
       <div class="brand-mark" aria-hidden="true">HC</div>
       <div>
-        <div class="brand-name">L'Hamburger del Contadino</div>
+        <div class="brand-name">Hamburgheria del Contadino</div>
         <div class="brand-sub">Carta Fedeltà · loyalty &amp; customer tracker</div>
       </div>
     </div>

diff --git a/README.md b/README.md
@@ -1,4 +1,4 @@
-# L'Hamburger del Contadino — Fidelity card & CRM (mock)
+# Hamburgheria del Contadino — Fidelity card & CRM (mock)
 
 A working, self-contained mock of a QR loyalty card with a customer tracker for a local burger restaurant.
 The QR on each card encodes the restaurant's fidelity link plus the card number:
@@ -43,7 +43,7 @@ All amounts are stored as integer cents, so totals are exact. Each receipt also 
 
 Third-party code: [qrcode-generator](https://github.com/kazuhikoarase/qrcode-generator) (MIT) and [jsQR](https://github.com/cozmo/jsQR) (Apache-2.0, license in `vendor/`).
 
-## Official fidelity QR — Hamburgeria di Chiari
+## Official fidelity QR — Hamburgheria del Contadino
 
 The ready-to-print files are in `qr/`. They link to the fidelity section at
 `https://lhamburgerdelcontadino.plateform.app/frontpage/fidelity`.
